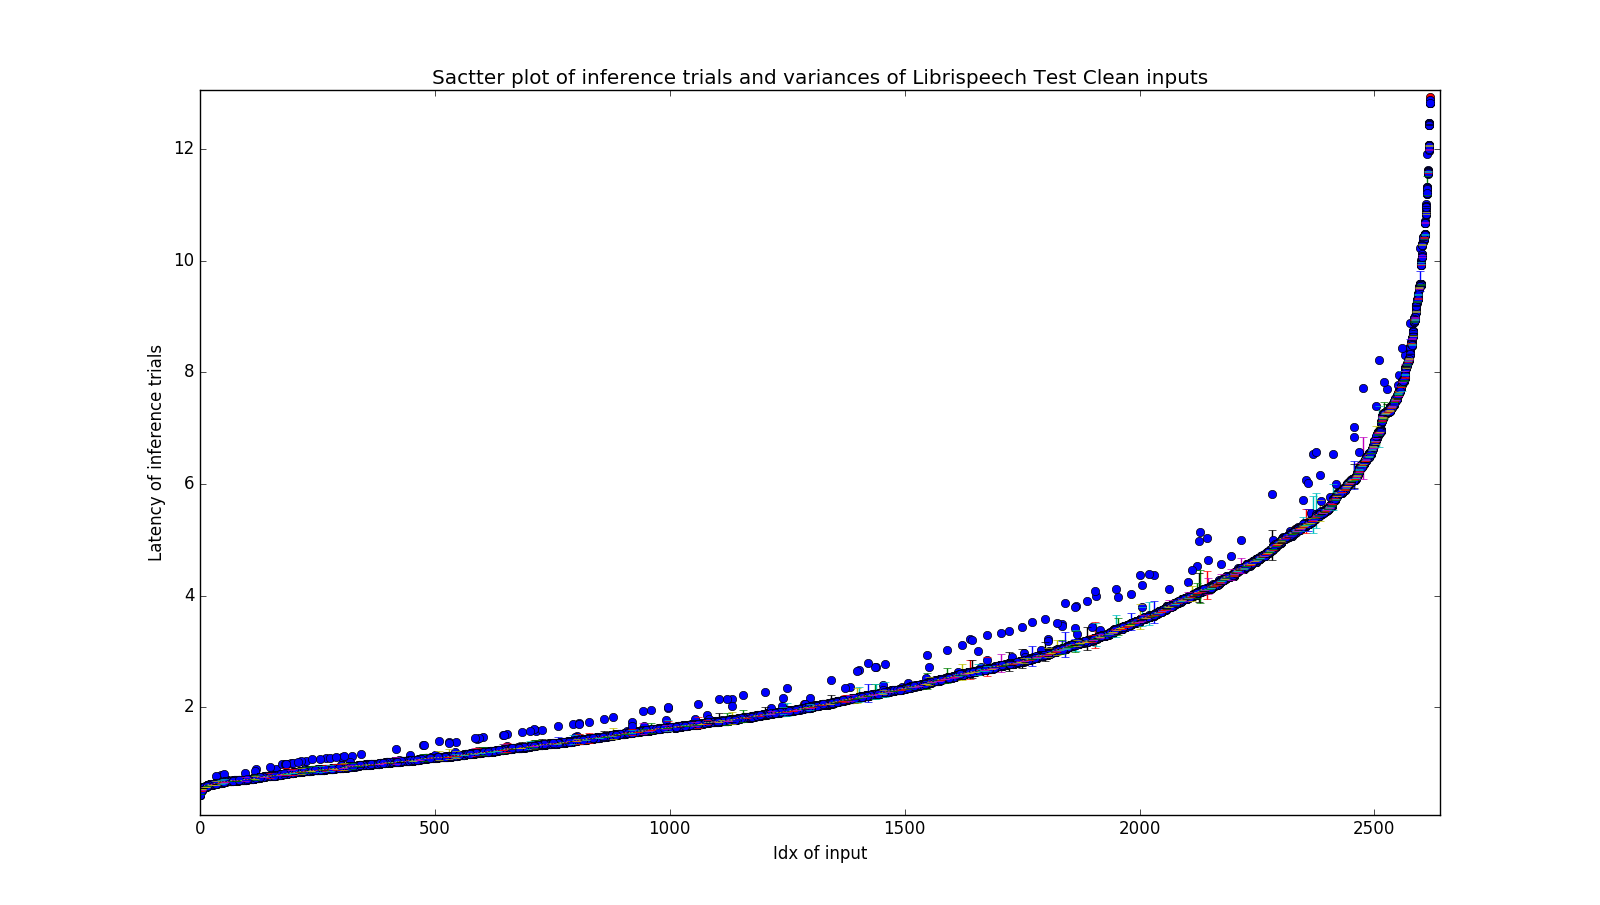
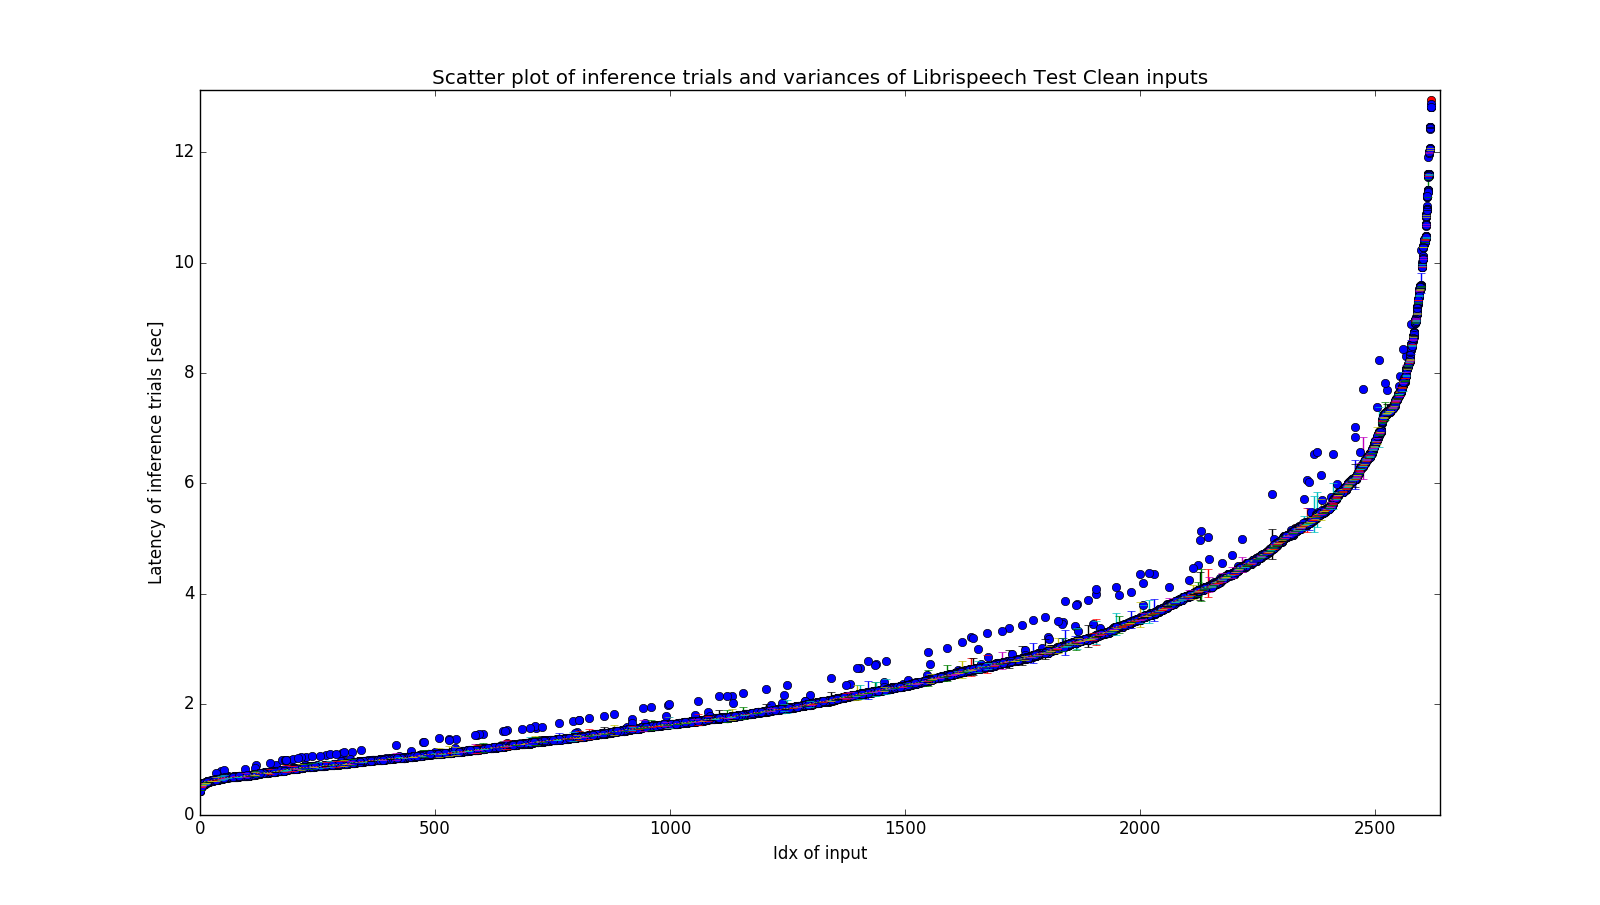
update plots and add the 'realtime speedup' metric

diff --git a/speech_recognition/pytorch/results/inference/libri_test_clean_bs1/generate_plot.py b/speech_recognition/pytorch/results/inference/libri_test_clean_bs1/generate_plot.py
@@ -107,7 +107,7 @@ if __name__ == "__main__":
             # Update the data dictionary to compute error bars and print out a detailed summary
             idx = stat[IDX]
             if not idx in data:
-                data[idx] = {'series': [stat[TIME]],'n': 1, 'mean': stat[TIME], 'stddev': 0}
+                data[idx] = {'series': [stat[TIME]],'n': 1, 'mean': stat[TIME], 'stddev': 0, 'dur': stat[DUR]}
             else:
                 prev = data[idx]                
                 data[idx]['series'].append(stat[TIME])
@@ -135,13 +135,38 @@ if __name__ == "__main__":
     print('Plot error bars')
     for idx in data:
         ax.errorbar(idx,data[idx]['mean'],yerr=data[idx]['stddev'])
-    plt.title('Sactter plot of inference trials and variances of Librispeech Test Clean inputs')
+    plt.title('Scatter plot of inference trials and variances of Librispeech Test Clean inputs')
     plt.xlabel('Idx of input')
-    plt.ylabel('Latency of inference trials')
+    plt.ylabel('Latency of inference trials [sec]')
     print('Showing plot (takes a while and blocks)')
-#     plt.show()
-    print('Saving Figures')
-    plt.savefig("sample_runtime.jpg")
+    plt.show()
+#     print('Saving Figures')
+#     plt.savefig("sample_runtime.jpg")
+    print('fin')
+    
+    # 1.5 Plot out the normalized plot using 
+    fig15 = plt.figure(15)
+    ax15 = plt.subplot(1, 1, 1)
+    print('Plot realtime speedup')
+    for idx in data:
+        ax15.plot(idx, data[idx]['dur']/data[idx]['mean'], marker='o', c='g')
+    plt.title('Normalized mean performance plot Librispeech Test Clean inputs')
+    plt.xlabel('Idx of input')
+    plt.ylabel('Real-time speed up = Input duration / mean Latency of inference trials [sec/sec]')
+    print('Showing plot')
+    plt.show()
+    print('fin')
+    
+    fig15 = plt.figure(16)
+    ax16 = plt.subplot(1, 1, 1)
+    print('Plot realtime speedup')
+    for idx in data:
+        ax16.plot(data[idx]['dur'], data[idx]['dur']/data[idx]['mean'], marker='o', c='g')
+    plt.title('Normalized mean performance plot Librispeech Test Clean inputs')
+    plt.xlabel('Input duration')
+    plt.ylabel('Real-time speed up = Input duration / mean Latency of inference trials [sec/sec]')
+    print('Showing plot')
+    plt.show()
     print('fin')
     
     # 2. Remove some x warmup runs then plot the CDF
